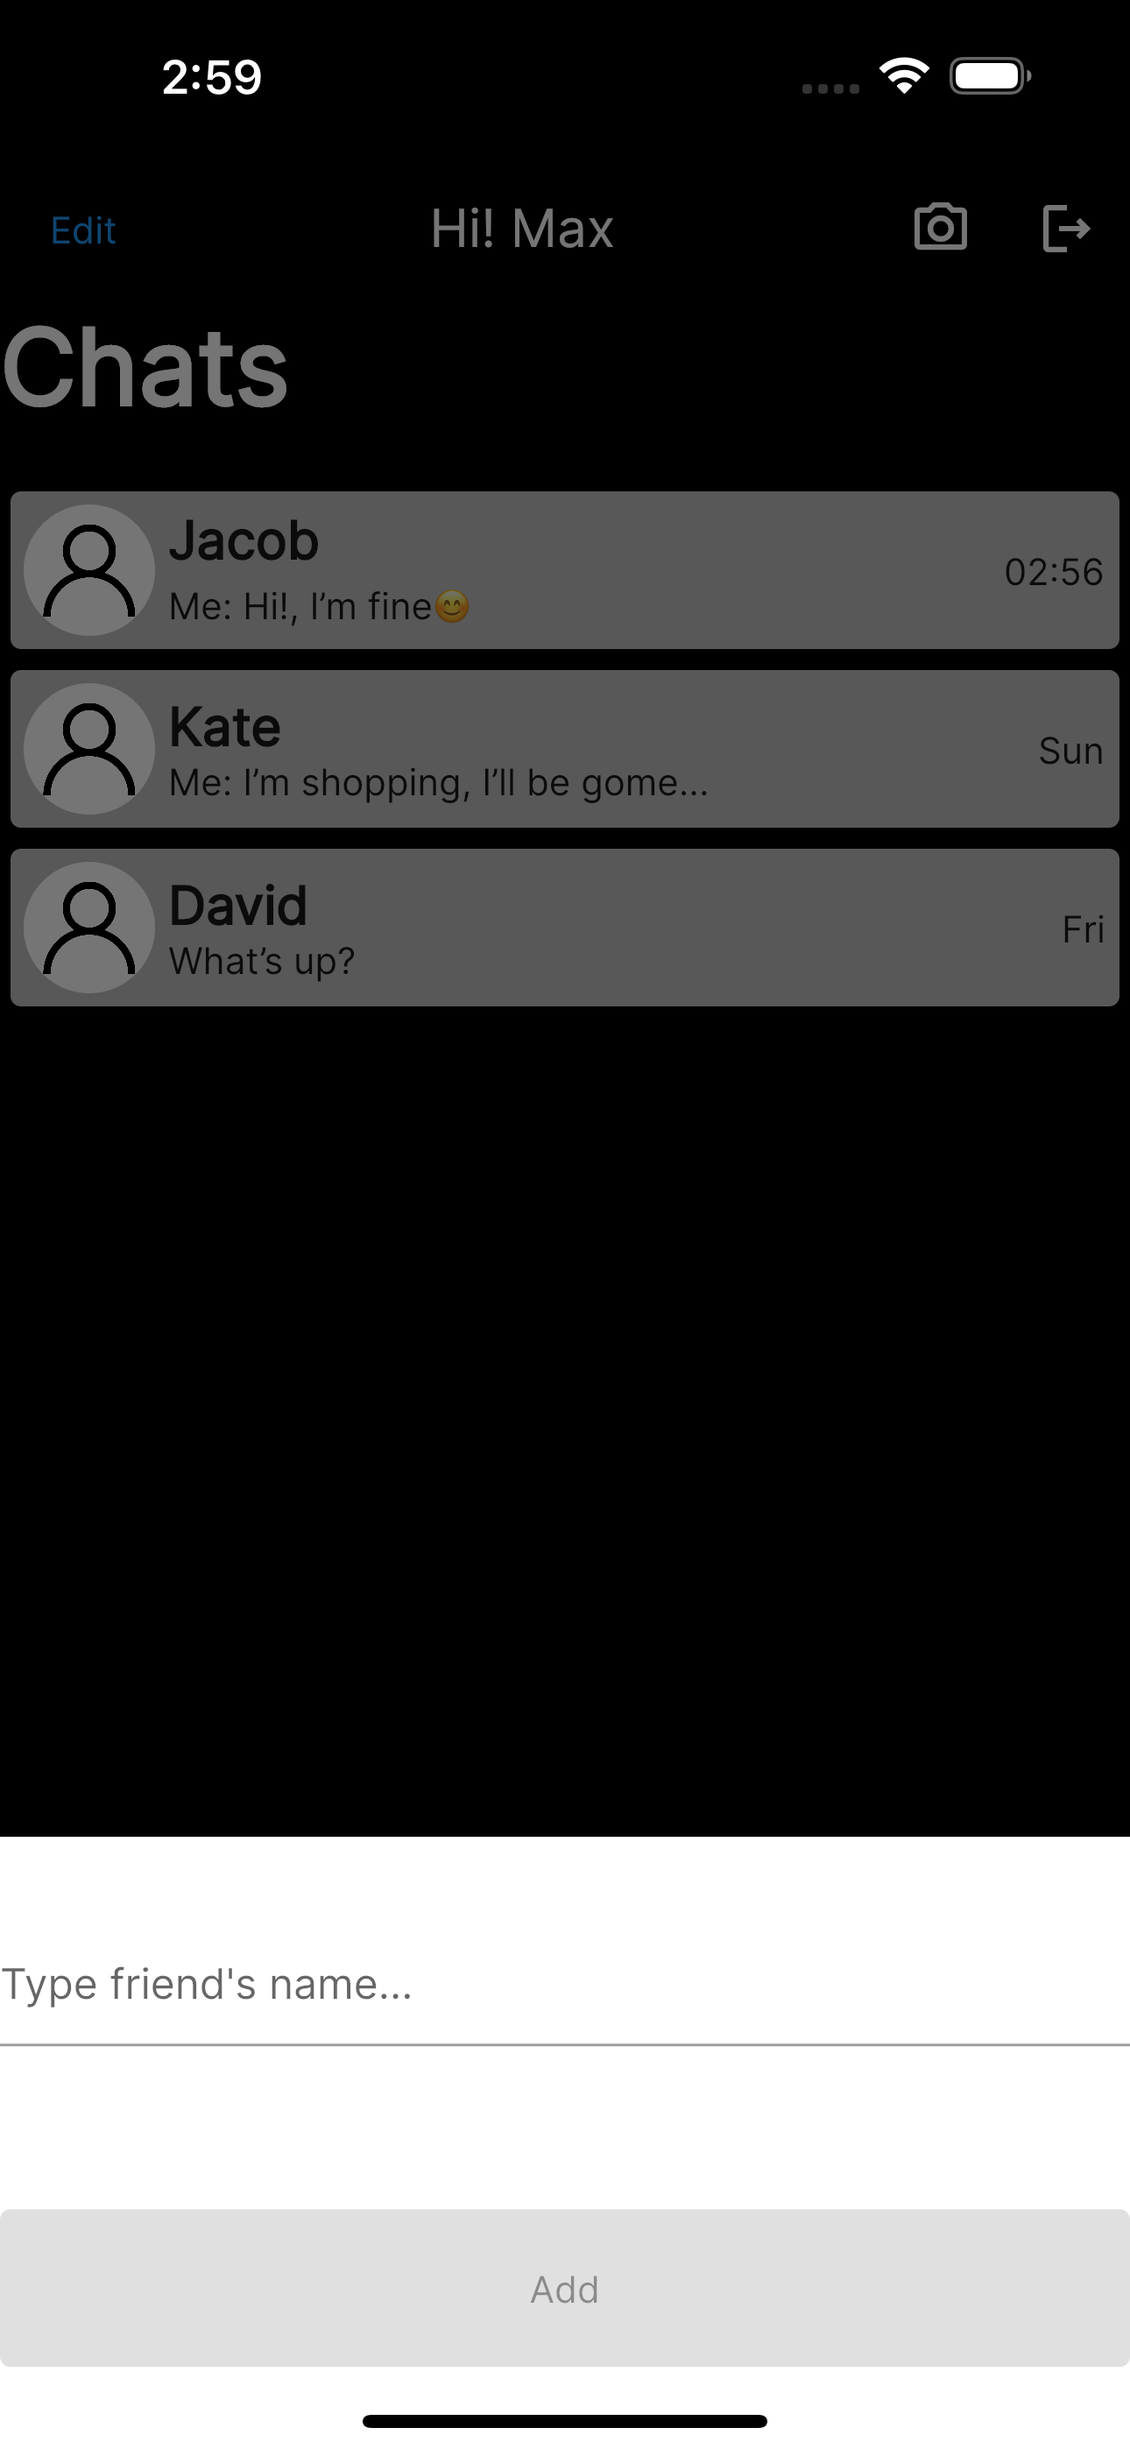
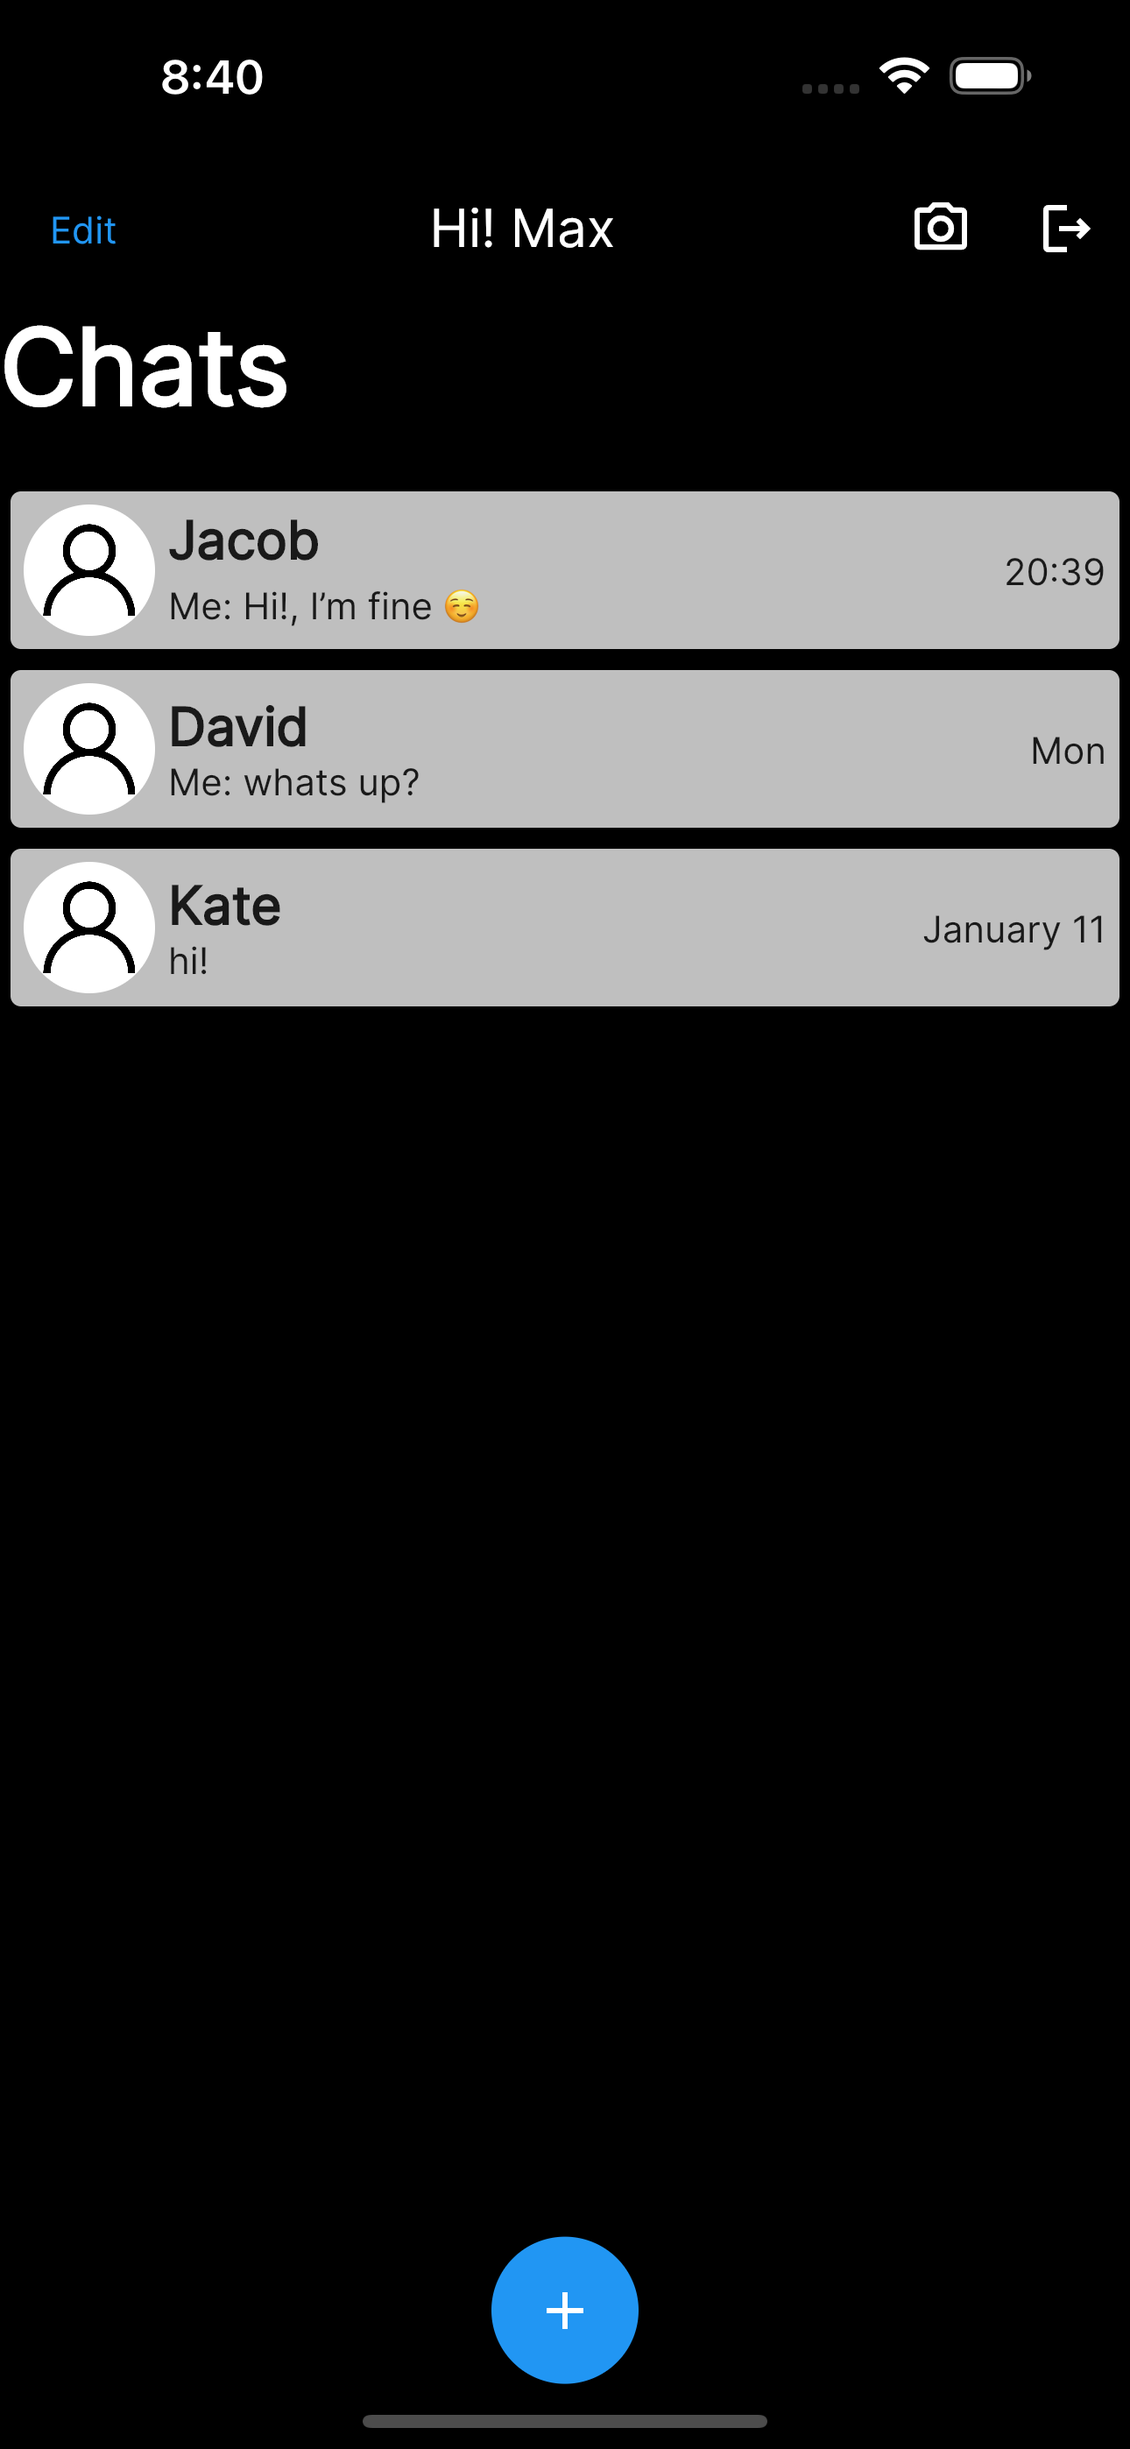
New delete chats feature added

diff --git a/lib/screens/home_screen.dart b/lib/screens/home_screen.dart
@@ -109,11 +109,6 @@ class _HomeScreenState extends State<HomeScreen> {
                 ),
               ],
             ),
-            shape: const RoundedRectangleBorder(
-              borderRadius: BorderRadius.vertical(
-                bottom: Radius.circular(25),
-              ),
-            ),
           ),
           body: SizedBox(
             height: MediaQuery.of(context).size.height * 0.85,
@@ -164,102 +159,138 @@ class _HomeScreenState extends State<HomeScreen> {
                                     return Container();
                                   } else {
                                     processedChatIds.add(chatId);
-                                    return GestureDetector(
-                                        onTap: () {
-                                          Navigator.of(context)
-                                              .push(MaterialPageRoute(
-                                            builder: (context) => ChatScreen(
-                                              snapshot.data!.docs[index]
-                                                          ['sender'] ==
-                                                      widget.getMyUsername()
-                                                  ? snapshot.data!.docs[index]
-                                                      ['receiver']
-                                                  : snapshot.data!.docs[index]
-                                                      ['sender'],
-                                            ),
-                                          ));
-                                        },
-                                        child: Card(
-                                          color: const Color.fromARGB(
-                                              255, 191, 191, 191),
+                                    return Dismissible(
+                                      direction: DismissDirection.endToStart,
+                                      onDismissed:
+                                          (DismissDirection direction) {
+                                        FirebaseFirestore.instance
+                                            .collection('messages')
+                                            .where('chatID',
+                                                isEqualTo: snapshot.data!
+                                                    .docs[index]['chatID'])
+                                            .get()
+                                            .then((querySnapshot) {
+                                          for (var doc in querySnapshot.docs) {
+                                            doc.reference.delete();
+                                          }
+                                        });
+                                      },
+                                      key: UniqueKey(),
+                                      background: Container(
+                                        margin: const EdgeInsets.all(4),
+                                        color: Colors.red,
+                                        child: const Align(
+                                          alignment: Alignment.centerRight,
                                           child: Padding(
-                                            padding: const EdgeInsets.all(5),
-                                            child: Row(
-                                              children: [
-                                                CircleAvatar(
-                                                  minRadius: 25,
-                                                  maxRadius: 25,
-                                                  backgroundColor: Colors.white,
-                                                  child: SizedBox(
-                                                      height: 35,
-                                                      child: Image.asset(
-                                                          'assets/img/user.png')),
-                                                ),
-                                                const SizedBox(
-                                                  width: 5,
-                                                ),
-                                                Column(
-                                                  crossAxisAlignment:
-                                                      CrossAxisAlignment.start,
-                                                  children: [
-                                                    snapshot.data!.docs[index]
-                                                                ['sender'] ==
-                                                            widget
-                                                                .getMyUsername()
-                                                        ? Text(
-                                                            snapshot.data!
-                                                                    .docs[index]
-                                                                ['receiver'],
-                                                            style: const TextStyle(
-                                                                fontWeight:
-                                                                    FontWeight
-                                                                        .bold,
-                                                                fontSize: 20),
-                                                          )
-                                                        : Text(
-                                                            snapshot.data!
-                                                                    .docs[index]
-                                                                ['sender'],
-                                                            style: const TextStyle(
-                                                                fontWeight:
-                                                                    FontWeight
-                                                                        .bold,
-                                                                fontSize: 20),
-                                                          ),
-                                                    snapshot.data!.docs[index]
-                                                                ['sender'] ==
-                                                            widget
-                                                                .getMyUsername()
-                                                        ? shortenedMsg ==
-                                                                fullSizeMsg
-                                                            ? Text(
-                                                                'Me: $shortenedMsg',
-                                                              )
-                                                            : Text(
-                                                                'Me: $shortenedMsg...',
-                                                              )
-                                                        : shortenedMsg ==
-                                                                fullSizeMsg
-                                                            ? Text(shortenedMsg)
-                                                            : Text(
-                                                                '$shortenedMsg...'),
-                                                  ],
-                                                ),
-                                                const Spacer(),
-                                                snapshot.data!.docs[index]
-                                                            ['created'] !=
-                                                        null
-                                                    ? Text(
-                                                        widget.timestampFormat(
-                                                            snapshot.data!
-                                                                    .docs[index]
-                                                                ['created']),
-                                                      )
-                                                    : Container(),
-                                              ],
-                                            ),
+                                            padding: EdgeInsets.all(16.0),
+                                            child: Icon(Icons.delete,
+                                                color: Colors.white),
                                           ),
-                                        ));
+                                        ),
+                                      ),
+                                      child: GestureDetector(
+                                          onTap: () {
+                                            Navigator.of(context)
+                                                .push(MaterialPageRoute(
+                                              builder: (context) => ChatScreen(
+                                                snapshot.data!.docs[index]
+                                                            ['sender'] ==
+                                                        widget.getMyUsername()
+                                                    ? snapshot.data!.docs[index]
+                                                        ['receiver']
+                                                    : snapshot.data!.docs[index]
+                                                        ['sender'],
+                                              ),
+                                            ));
+                                          },
+                                          child: Card(
+                                            color: const Color.fromARGB(
+                                                255, 191, 191, 191),
+                                            child: Padding(
+                                              padding: const EdgeInsets.all(5),
+                                              child: Row(
+                                                children: [
+                                                  CircleAvatar(
+                                                    minRadius: 25,
+                                                    maxRadius: 25,
+                                                    backgroundColor:
+                                                        Colors.white,
+                                                    child: SizedBox(
+                                                        height: 35,
+                                                        child: Image.asset(
+                                                            'assets/img/user.png')),
+                                                  ),
+                                                  const SizedBox(
+                                                    width: 5,
+                                                  ),
+                                                  Column(
+                                                    crossAxisAlignment:
+                                                        CrossAxisAlignment
+                                                            .start,
+                                                    children: [
+                                                      snapshot.data!.docs[index]
+                                                                  ['sender'] ==
+                                                              widget
+                                                                  .getMyUsername()
+                                                          ? Text(
+                                                              snapshot.data!
+                                                                          .docs[
+                                                                      index]
+                                                                  ['receiver'],
+                                                              style: const TextStyle(
+                                                                  fontWeight:
+                                                                      FontWeight
+                                                                          .bold,
+                                                                  fontSize: 20),
+                                                            )
+                                                          : Text(
+                                                              snapshot.data!
+                                                                          .docs[
+                                                                      index]
+                                                                  ['sender'],
+                                                              style: const TextStyle(
+                                                                  fontWeight:
+                                                                      FontWeight
+                                                                          .bold,
+                                                                  fontSize: 20),
+                                                            ),
+                                                      snapshot.data!.docs[index]
+                                                                  ['sender'] ==
+                                                              widget
+                                                                  .getMyUsername()
+                                                          ? shortenedMsg ==
+                                                                  fullSizeMsg
+                                                              ? Text(
+                                                                  'Me: $shortenedMsg',
+                                                                )
+                                                              : Text(
+                                                                  'Me: $shortenedMsg...',
+                                                                )
+                                                          : shortenedMsg ==
+                                                                  fullSizeMsg
+                                                              ? Text(
+                                                                  shortenedMsg)
+                                                              : Text(
+                                                                  '$shortenedMsg...'),
+                                                    ],
+                                                  ),
+                                                  const Spacer(),
+                                                  snapshot.data!.docs[index]
+                                                              ['created'] !=
+                                                          null
+                                                      ? Text(
+                                                          widget.timestampFormat(
+                                                              snapshot.data!
+                                                                          .docs[
+                                                                      index]
+                                                                  ['created']),
+                                                        )
+                                                      : Container(),
+                                                ],
+                                              ),
+                                            ),
+                                          )),
+                                    );
                                   }
                                 });
                           }

diff --git a/README.md b/README.md
@@ -6,6 +6,7 @@
    <img src="https://github.com/Oskar888/flutter-chat/blob/main/.github/images/Appscreen3.png?raw=true" alt="Flutter Weather App Preview" width=30% height=30%/> 
     <img src="https://github.com/Oskar888/flutter-chat/blob/main/.github/images/Appscreen4.png?raw=true" alt="Flutter Weather App Preview" width=30% height=30%/> 
      <img src="https://github.com/Oskar888/flutter-chat/blob/main/.github/images/Appscreen5.png?raw=true" alt="Flutter Weather App Preview" width=30% height=30%/> 
+      <img src="https://github.com/Oskar888/flutter-chat/blob/main/.github/images/Appscreen6.png?raw=true" alt="Flutter Weather App Preview" width=30% height=30%/> 
 </p>
 
 ## Getting started
@@ -16,6 +17,7 @@ Setup android and iOS project on your firebase account, follow the mentioned ste
 * Client and backend validation during login and register
 * Real-time send and receive messages
 * List of recent chats with the most important informations
+* Delete chats from the list(along with all messages inside) by swiping them to the left
 * Search friends by username
 
 ## Used tools
